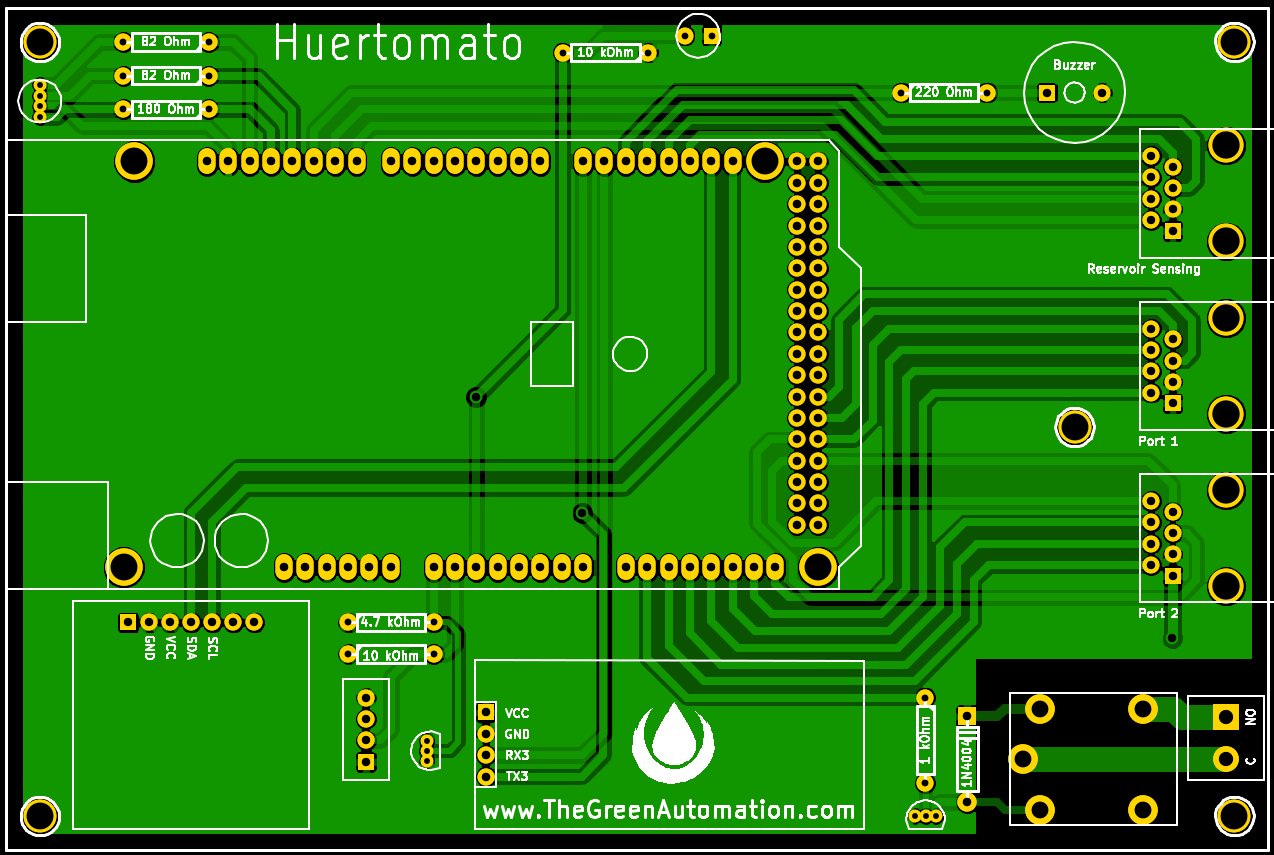
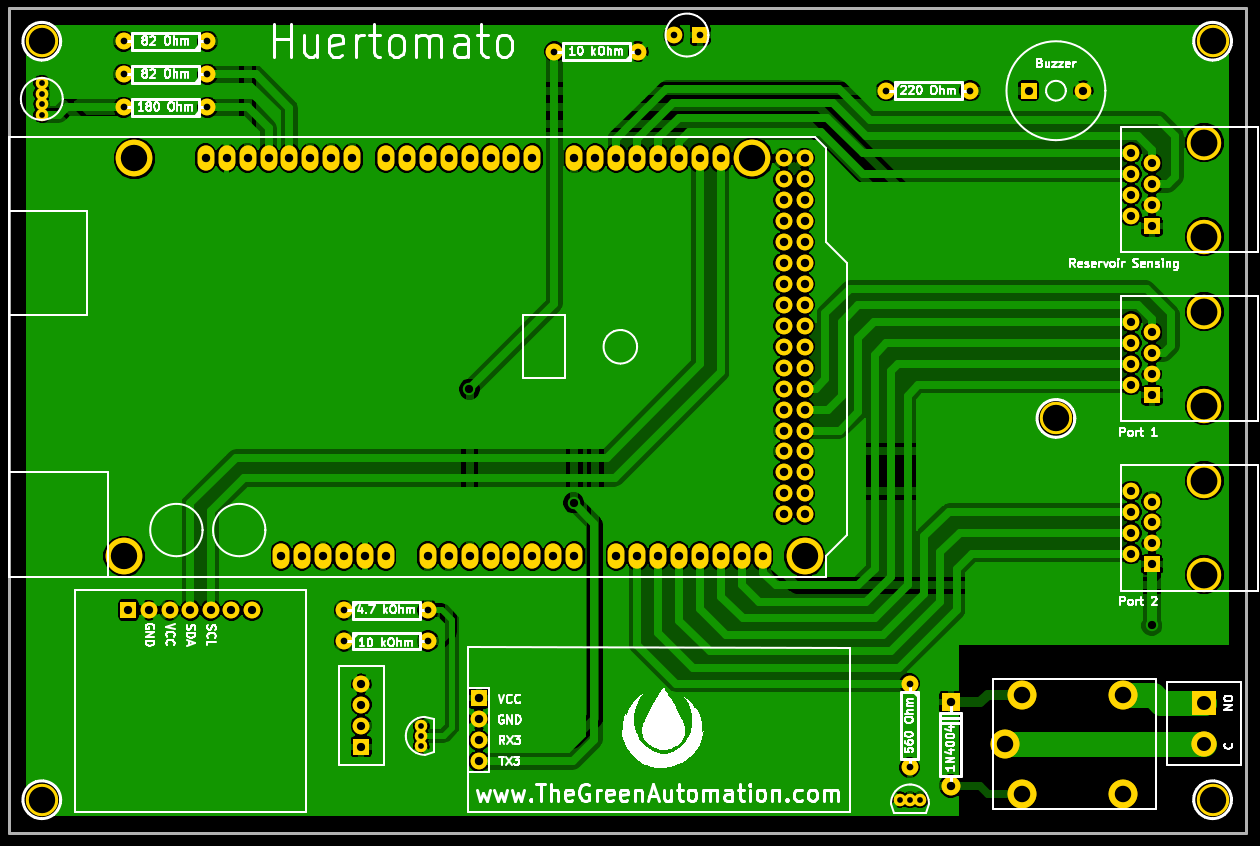
v1.1 adjusted relay resistor value

diff --git a/README.md b/README.md
@@ -1,6 +1,22 @@
 These are KiCad schematics and PCB design files of the Arduino based Huertomato hydroponics controller. 
 
-These files have been tested and work with main Huertomato code.
+The main board has thses components:
+
+* Temperature DS18B20
+* Humidity DHT11
+* Light resistor sensor
+* Nutrient pump relay
+* RGB LED 
+* RTC Clock
+* Buzzer
+* Reservoir sensing module port
+
+Expansion options (not supported by SW):
+* Bluetooth module headers
+* 2 Extra expansion ports designed for standard RJ45.
+
+
+These files have been tested and work with main [Huertomato code.](https://github.com/TheGreenAutomation/Huertomato_Code)
 
 ![alt tag](https://raw.githubusercontent.com/TheGreenAutomation/Huertomato_MainHW/master/mainPCB.png)
 
